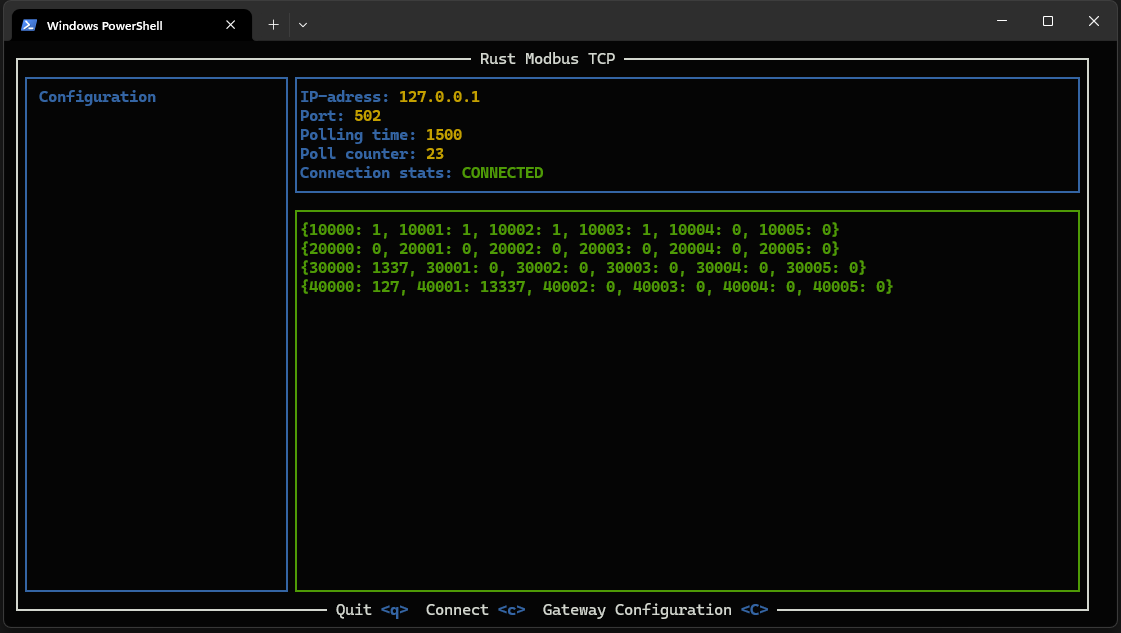
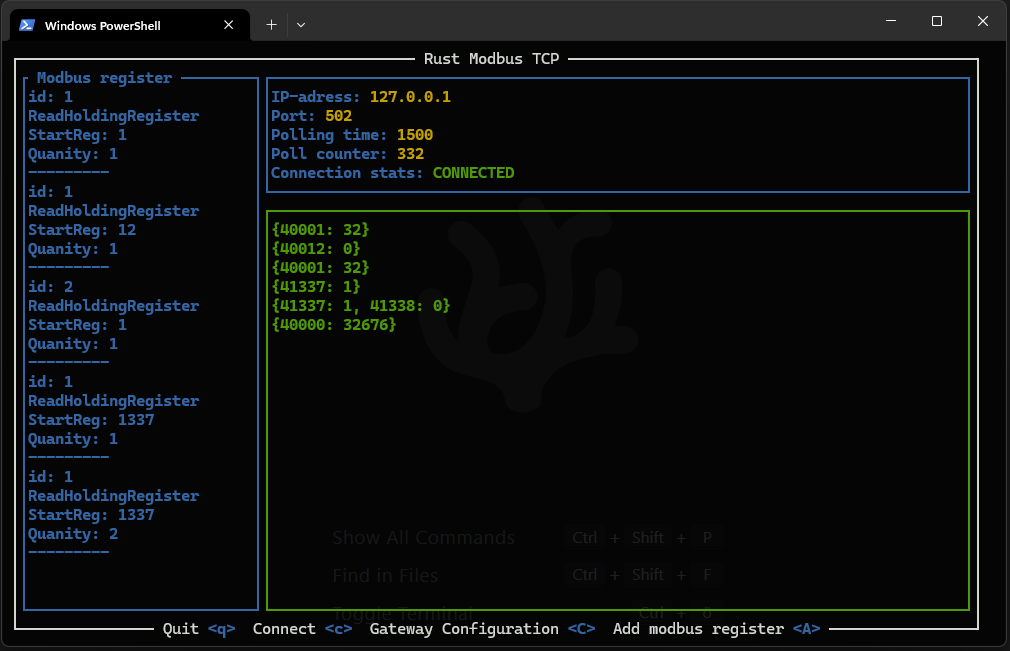
working concept, add reg.

Changed region(s): [[0.0, 0.0, 1.0, 1.0], [0.9515, 0.03, 0.9822, 0.06]]

diff --git a/src/ui/ui.rs b/src/ui/ui.rs
@@ -1,5 +1,5 @@
 use color_eyre::{Result}; 
-use ratatui::{DefaultTerminal, Frame, style::{Color, Stylize}, text::Line, widgets::{Block, Borders, Clear, List, ListState, Paragraph}}; 
+use ratatui::{DefaultTerminal, Frame, style::{Color, Stylize}, text::Line, widgets::{Block, Borders, Clear, List, ListItem, ListState, Paragraph}}; 
 use ratatui::layout::{Layout, Direction, Constraint, Rect};
 use ratatui::prelude::*; 
 use std::{ time::{Duration, Instant}, vec};
@@ -174,10 +174,20 @@ pub fn render(frame: &mut Frame, app: &mut AppState, list_state: &mut ListState)
             Constraint::Percentage(75)])
         .split(outer_layout[1]);     
     
-    //let mut items: Vec<ModbusRequestData> = Vec::new();
-    let mut items = [app.modbus_request_data.as_string()];
 
-    // Temporary 
+    if app.modbus_write_request {
+        app.modbus_requests.push(app.modbus_request_data.clone()); 
+        app.modbus_request_data.clear_data();
+        app.modbus_write_request = false; 
+    }
+
+    let items: Vec<ListItem> = app
+        .modbus_requests
+        .iter()
+        .map(|request| {
+            ListItem::new(request.as_string())
+        })
+        .collect();
 
     let list = List::new(items)
             .block(
@@ -299,23 +309,18 @@ pub fn run(mut terminal: DefaultTerminal, app: &mut AppState) -> Result<()> {
 
             // Connection failed
             app.connection_error = connection_ok.is_err();
-            
             }
+            let mut data = vec![]; 
             // Fetch data 
             if let Some(master) = master.as_mut() {
-                let data = [
-                    master.read_modbus_register(ModbusFunction::ReadCoilRegister, app.slave_id, start_adress, quantity),
-                    master.read_modbus_register(ModbusFunction::ReadInputStatusRegister,app.slave_id, start_adress,quantity),
-                    master.read_modbus_register(ModbusFunction::ReadInputRegister, app.slave_id, start_adress, quantity),
-                    master.read_modbus_register(ModbusFunction::ReadHoldingRegister,app.slave_id,start_adress,quantity),        
-                ];
+                for r in app.modbus_requests.iter() {
 
-            // Not my solution -.-     
-            if let [Ok(a), Ok(b), Ok(c), Ok(d)] = data {
-                handle_modbus_data(app, vec![a, b, c, d]);
-            } else {
-                handle_modbus_data(app, vec![]);
-            }
+                    if let Ok(response) = master.read_modbus_register(r.clone()) {
+                        data.push(response);
+                    } 
+                }                
+
+            handle_modbus_data(app, data);
             }
     
 

diff --git a/src/modbus/modbus_client.rs b/src/modbus/modbus_client.rs
@@ -6,6 +6,7 @@ use std::u8;
 use std::{net::TcpStream};
 
 use crate::modbus::modbus_response::{decode_response_bits, decode_response};
+use crate::ui::app::ModbusRequestData;
 
 #[derive(Clone, Copy, Debug, Default)]
 pub enum ModbusFunction {
@@ -58,7 +59,7 @@ impl ModbusMaster {
 
 
     // Read modbus register
-    pub fn read_modbus_register(&mut self, modbus_function: ModbusFunction,unit_id: u8, start_addr: u16, quantity : u16 ) -> Result<BTreeMap<u16, u16>> {
+    pub fn read_modbus_register(&mut self, request_data: ModbusRequestData ) -> Result<BTreeMap<u16, u16>> {
 
         fn build_read_register(modbus_function : ModbusFunction, unit_id: u8, start_addr: u16, quantity: u16 ) -> Vec<u8> {
 
@@ -89,7 +90,7 @@ impl ModbusMaster {
             return request; 
         }
 
-        let mb_function = modbus_function.clone(); 
+        let mb_function = request_data.function.clone(); 
 
         
 
@@ -101,7 +102,23 @@ impl ModbusMaster {
 
         }; 
 
-        let modbus_request = build_read_register(modbus_function, unit_id, start_addr, quantity);
+        let Some(slave_id) = request_data.slave_id else {
+            return Err(std::io::Error::new(std::io::ErrorKind::InvalidInput, "Missing slave_id"));
+        };
+
+        let Some(start_addr) = request_data.start_addr else {
+            return Err(std::io::Error::new(std::io::ErrorKind::InvalidInput, "Missing start adress"));
+        };
+
+        let Some(quantity) = request_data.quantity else {
+            return Err(std::io::Error::new(std::io::ErrorKind::InvalidInput, "Missing quanity"));
+        };
+
+        let modbus_request = build_read_register(
+            request_data.function,
+            slave_id, 
+            start_addr, 
+            quantity as u16);
         stream.write(&modbus_request)?;
 
         let mut response = [0u8; 254]; 

diff --git a/src/ui/app.rs b/src/ui/app.rs
@@ -10,6 +10,7 @@ pub struct AppState {
     pub connect_requested: bool,
     pub active_popup_field: PopupField,
     pub modbus_data: String,
+    pub modbus_requests: Vec<ModbusRequestData>,
     pub modbus_request_data: ModbusRequestData,
     pub modbus_write_request: bool, 
     pub poll_time: u16,
@@ -19,7 +20,7 @@ pub struct AppState {
     pub ui_state: UiStates,
 }
 
-#[derive(Debug, Default)]
+#[derive(Debug, Default, Clone)]
 pub struct ModbusRequestData {
     pub slave_id: Option<u8>,
     pub function: ModbusFunction, 
@@ -48,6 +49,12 @@ impl ModbusRequestData {
             }
         )
     }
+
+    pub fn clear_data(&mut self) {
+        self.slave_id = None; 
+        self.start_addr = None; 
+        self.quantity = None;  
+    }
     
 }
 
@@ -58,7 +65,7 @@ pub enum PopupField {
     Port,
     Poll,
 }
-#[derive(Debug, Default)]
+#[derive(Debug, Default, Clone)]
 pub enum ModbusRequestPopupField {
     #[default]
     SlavId,

diff --git a/src/main.rs b/src/main.rs
@@ -15,7 +15,8 @@ fn main() -> Result<()> {
         connect_requested: false, 
         active_popup_field: PopupField::Ip,
         modbus_data: "".to_string(),
-        modbus_request_data: { ui::app::ModbusRequestData { slave_id: None, function: ModbusFunction::ReadCoilRegister, start_addr: None, quantity: None, input_field: ModbusRequestPopupField::StartRegister, input_field_popup: false}}, 
+        modbus_requests: vec![],
+        modbus_request_data: ui::app::ModbusRequestData { slave_id: None, function: ModbusFunction::ReadCoilRegister, start_addr: None, quantity: None, input_field: ModbusRequestPopupField::StartRegister, input_field_popup: false}, 
         modbus_write_request: false, 
         poll_time: 1500,
         poll_time_input: "1500".to_string(), 

diff --git a/src/modbus/modbus_response.rs b/src/modbus/modbus_response.rs
@@ -15,7 +15,7 @@ return response;
 } 
 
 
-pub fn decode_response_bits(byte_count : usize, quantity : u16, stream_response: &[u8], start_addr : u16 ) -> BTreeMap<u16, u16> {
+pub fn decode_response_bits(byte_count : usize, quantity : u8, stream_response: &[u8], start_addr : u16 ) -> BTreeMap<u16, u16> {
 
     let mut response : BTreeMap<u16, u16> = BTreeMap::new();
     let mut counter: u16 = start_addr; 
